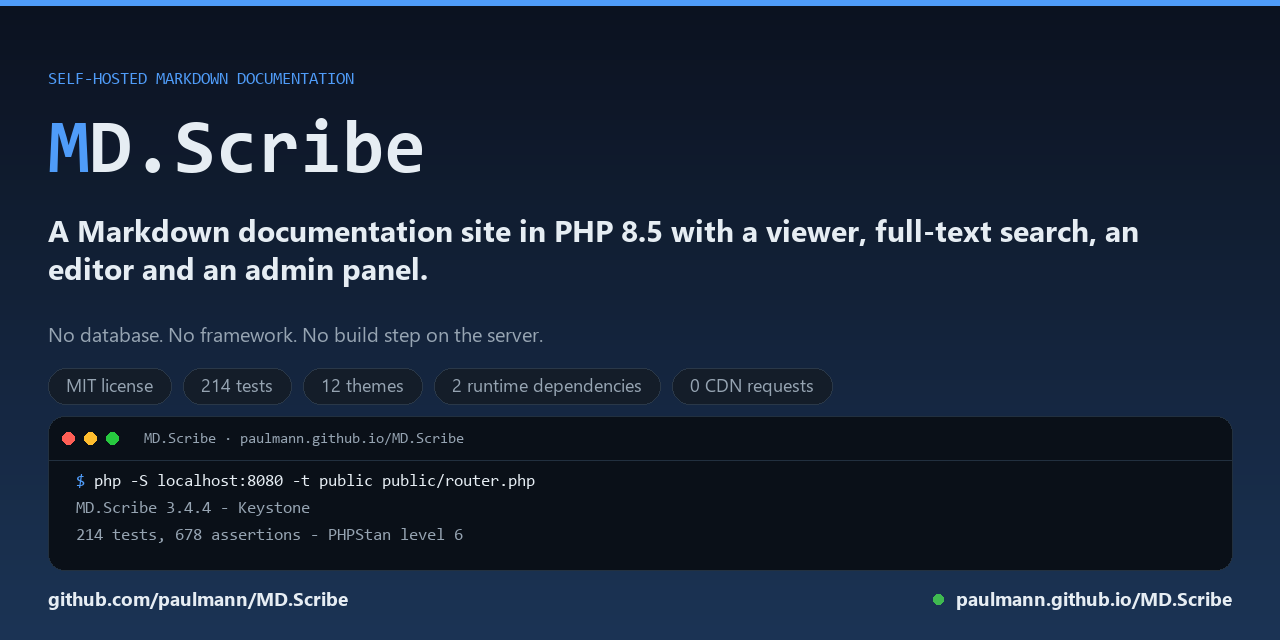
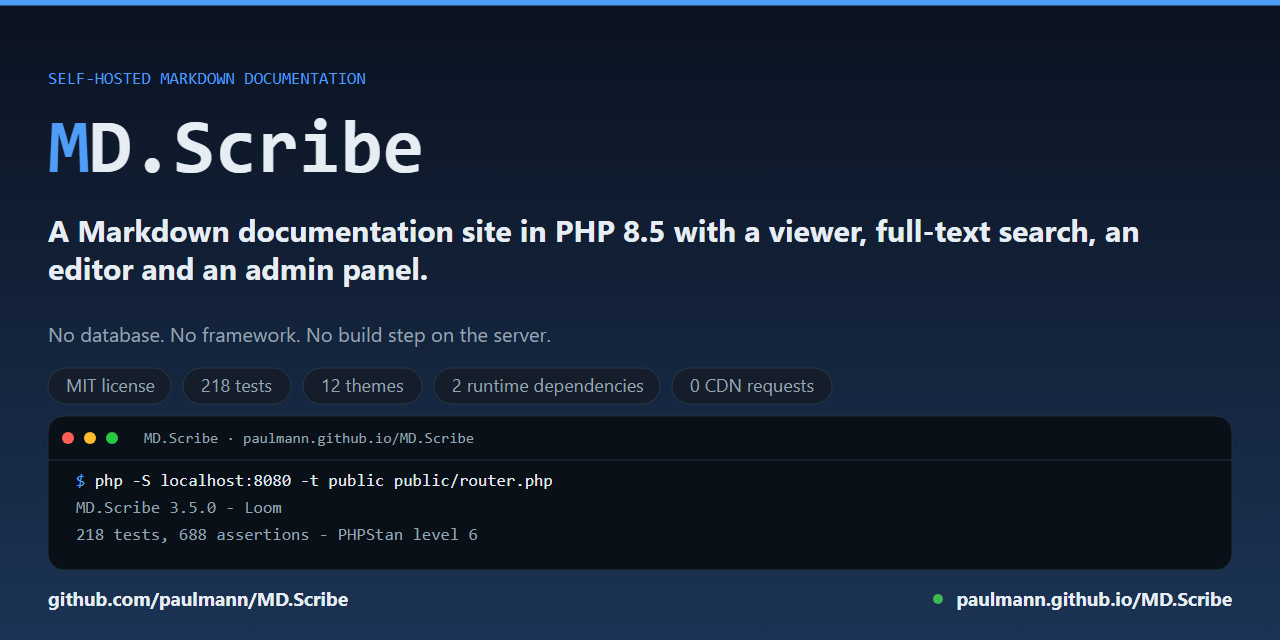
chore(release): prepare 3.5.0 "Loom"
Version carriers move together: Version::VERSION 3.5.0 and CODENAME Loom, the CHANGELOG Unreleased section becomes ## 3.5.0 - 2026-11-14, and every README carries Version: 3.5.0. The doctrine checker compares all three and now reports no version warning.

Mermaid 12.3.0 is the headline: edge IDs with animation, step-by-step flow animation (12.3+), the circle/cross edge markers and the @{ shape: … } family are listed under Added with the 18-diagram verification. CITATION.cff, the SECURITY supported-versions table (3.5.x current, 3.4.x previous), AGENTS.md and docs/AGENTS-context.md follow the new release; the banner and the test badges move from 214 to 218.

diff --git a/src/Core/Version.php b/src/Core/Version.php
@@ -10,8 +10,8 @@ namespace MdViewer\Core;
 
 final class Version
 {
-    public const string VERSION = '3.4.4';
-    public const string CODENAME = 'Keystone';
+    public const string VERSION = '3.5.0';
+    public const string CODENAME = 'Loom';
     public const string PHP_MIN = '8.5.0';
     public const string REPO = 'https://github.com/paulmann/MD.Scribe';
     public const string RAW_BASE = 'https://raw.githubusercontent.com/paulmann/MD.Scribe/main';

diff --git a/docs/AGENTS-context.md b/docs/AGENTS-context.md
@@ -1,8 +1,8 @@
-# Project context: MD.Scribe 3.4.4 «Keystone»
+# Project context: MD.Scribe 3.5.0 «Loom»
 
 Deep reference for an agent working on this repository. Read `AGENTS.md` first;
 read the code before asserting anything. Everything here was verified against
-the tree at 3.4.4 — when a line number disagrees with the file, the file wins
+the tree at 3.5.0 — when a line number disagrees with the file, the file wins
 and the disagreement is a documentation defect worth reporting.
 
 Platform facts that changed in the 3.4 line: **PHP floor is 8.5** (anything below is
@@ -278,10 +278,10 @@ If the PHP user differs from the deploy user, the first symptom is
   examining the wrong object. `plan()` downloads the release archive, verifies it
   against the manifest inside it and reports what would change; it writes nothing.
   `apply()` and `plan()` share `openRelease()`, so they cannot drift apart.
-- **Releases:** one tag at a time in the 3.4 line — `v3.4.4` is the only 3.4
-  release (measured 2026-11-14 with `gh release list`); the archive asset
-  `MD.Scribe-3.4.4.zip` is attached and was deployed and verified before the
-  release was published. CI runs on branches and on the release commit.
+- **Releases:** `v3.5.0` (2026-11-14) is the current release, `v3.4.4`
+  (2026-11-13) the previous one; both carry an archive asset. The archive's
+  embedded `config/manifest.json` was verified against the archive contents
+  before publishing. CI runs on branches and on the release commit.
 
 ## 9. Build and test toolchain
 
@@ -301,8 +301,8 @@ and the three root scripts, but **not** `bin/md-scribe-render`. The doctrine che
 enforces `declare(strict_types=1)` in every `src/` file and a PHPStan ratchet that
 forbids new `ignoreErrors` entries (`phpstan.neon:33-34`).
 
-Baseline at 3.4.4 on Windows (PHP 8.5.0): `php vendor\bin\phpunit --no-coverage`
-reports `Tests: 214, Assertions: 678, Skipped: 1`, exit 0; PHPStan level 6 is clean;
+Baseline at 3.5.0 on Windows (PHP 8.5.0): `php vendor\bin\phpunit --no-coverage`
+reports `OK (218 tests, 688 assertions, 1 skipped)`, exit 0; PHPStan level 6 is clean;
 the doctrine checker reports `checks: 12, errors: 0, warnings: 0` (`PASS`). The three
 checks added in 3.4.4 — the manifest media type, the table-layout rules (including
 "both CSS copies are identical") and the ban on paste-ready `types { }` snippets in
@@ -338,7 +338,7 @@ test-portability defect that has since been fixed.
 
 | Question | How to settle it |
 |---|---|
-| Does the published `MD.Scribe-3.4.4.zip` still match the tree? | Compare its embedded `config/manifest.json` against one regenerated from the checkout |
+| Does the published `MD.Scribe-3.5.0.zip` still match the tree? | Compare its embedded `config/manifest.json` against one regenerated from the checkout |
 | Is `bin/md-scribe-render` intentionally outside lint and PHPStan? | Decide, then either add it to `phpstan.neon` paths and the CI `find`, or document the exclusion |
 | Does the `assets` CI job's drift warning ever fire in practice? | Run `node build.mjs` and compare `git diff --stat public/assets` |
 | Should the updater ship a release archive instead of `main`? | Product decision; both failure modes are recorded in §8 |
@@ -377,7 +377,7 @@ test-portability defect that has since been fixed.
 ## 14. Operator guide (kept from AGENTS.md)
 
 The sections below were written for the 3.2.x line and are kept because they answer installation and
-failure-mode questions the developer sections do not repeat. Version references were updated to 3.4.4.
+failure-mode questions the developer sections do not repeat. Version references were updated to 3.5.0.
 
 ### 14.1 What it is
 
@@ -411,7 +411,7 @@ If a check fails, stop and report; do not work around it silently.
 
 #### 14.3.1 From a release (preferred)
 
-Tag `v3.4.4`, asset `MD.Scribe-3.4.4.zip`; the archive bundles `vendor/`, so Composer is not needed.
+Tag `v3.5.0`, asset `MD.Scribe-3.5.0.zip`; the archive bundles `vendor/`, so Composer is not needed.
 Commands from the release notes:
 
 ```bash

diff --git a/README.es.md b/README.es.md
@@ -1,6 +1,6 @@
 <!--
  * MD.Scribe — Documentation
- * Version: 3.4.4
+ * Version: 3.5.0
 -->
 
 # MD.Scribe 3
@@ -19,7 +19,7 @@ todos los recursos se distribuyen localmente, por lo que toda la aplicación fun
 [![Versión](https://img.shields.io/github/v/release/paulmann/MD.Scribe?label=release&sort=semver)](https://github.com/paulmann/MD.Scribe/releases)
 [![Licencia: MIT](https://img.shields.io/badge/license-MIT-blue.svg)](LICENSE)
 [![PHP 8.5](https://img.shields.io/badge/PHP-8.5-777BB4?logo=php&logoColor=white)](https://php.net)
-[![Pruebas](https://img.shields.io/badge/tests-214%20passed-brightgreen)](tests)
+[![Pruebas](https://img.shields.io/badge/tests-218%20passed-brightgreen)](tests)
 [![Peticiones CDN](https://img.shields.io/badge/CDN%20requests-0-success)](#política-de-cero-cdn)
 
 <img src="https://github.com/paulmann/MD.Scribe/raw/main/assets/social-preview.png"
@@ -29,7 +29,7 @@ todos los recursos se distribuyen localmente, por lo que toda la aplicación fun
 [**Inicio rápido**](#inicio-rápido) · [**Recorrido por las funciones**](#recorrido-por-las-funciones) · [**Configuración**](#configuración--mdini) · [**Documentación**](#documentación) · [**Wiki**](https://github.com/paulmann/MD.Scribe/wiki) · [**AGENTS.md**](AGENTS.md) · [**Changelog**](CHANGELOG.md) · [**Seguridad**](SECURITY.md) · [**Contribuir**](CONTRIBUTING.md)
 
 > **Estado de la documentación.** La versión y todas las cifras de este README se midieron el
-> 2026-11-14 sobre el árbol `main` de la 3.4.4, con el comando indicado allí donde aparece la
+> 2026-11-14 sobre el árbol `main` de la 3.5.0, con el comando indicado allí donde aparece la
 > cifra. Las guías orientadas a tareas están en la
 > [wiki](https://github.com/paulmann/MD.Scribe/wiki/Home); la documentación de referencia está
 > en [`docs/`](docs/installation.md).
@@ -298,7 +298,7 @@ Para informar de una vulnerabilidad: **[SECURITY.md](SECURITY.md)**.
 
 ## En cifras
 
-Medido el 2026-11-14 sobre el árbol `main` de la 3.4.4:
+Medido el 2026-11-14 sobre el árbol `main` de la 3.5.0:
 
 | Superficie | Valor | Fuente de la medición |
 | --- | ---: | --- |

diff --git a/README.zh.md b/README.zh.md
@@ -1,6 +1,6 @@
 <!--
  * MD.Scribe — Documentation
- * Version: 3.4.4
+ * Version: 3.5.0
 -->
 
 # MD.Scribe 3
@@ -17,7 +17,7 @@ MD.Scribe 是一个用 PHP 8.5 构建的自托管 Markdown 文档平台：一个
 [![发布](https://img.shields.io/github/v/release/paulmann/MD.Scribe?label=release&sort=semver)](https://github.com/paulmann/MD.Scribe/releases)
 [![许可证：MIT](https://img.shields.io/badge/license-MIT-blue.svg)](LICENSE)
 [![PHP 8.5](https://img.shields.io/badge/PHP-8.5-777BB4?logo=php&logoColor=white)](https://php.net)
-[![测试](https://img.shields.io/badge/tests-214%20passed-brightgreen)](tests)
+[![测试](https://img.shields.io/badge/tests-218%20passed-brightgreen)](tests)
 [![CDN 请求](https://img.shields.io/badge/CDN%20requests-0-success)](#零-cdn-策略)
 
 <img src="https://github.com/paulmann/MD.Scribe/raw/main/assets/social-preview.png"
@@ -26,7 +26,7 @@ MD.Scribe 是一个用 PHP 8.5 构建的自托管 Markdown 文档平台：一个
 
 [**快速开始**](#快速开始) · [**功能导览**](#功能导览) · [**配置**](#配置--mdini) · [**文档**](#文档) · [**Wiki**](https://github.com/paulmann/MD.Scribe/wiki) · [**AGENTS.md**](AGENTS.md) · [**更新日志**](CHANGELOG.md) · [**安全性**](SECURITY.md) · [**参与贡献**](CONTRIBUTING.md)
 
-> **文档状态。** 本 README 中的版本号和每一个数字都于 2026-11-14 针对 3.4.4 的 `main` 树测得，
+> **文档状态。** 本 README 中的版本号和每一个数字都于 2026-11-14 针对 3.5.0 的 `main` 树测得，
 > 并在数字出现处注明所用的命令。面向任务的指南位于
 > [wiki](https://github.com/paulmann/MD.Scribe/wiki/Home)；参考文档位于
 > [`docs/`](docs/installation.md)。
@@ -273,7 +273,7 @@ curl -H "X-Api-Key: $API_KEY" -H 'Content-Type: application/json' \
 
 ## 数字一览
 
-于 2026-11-14 针对 3.4.4 的 `main` 树测得：
+于 2026-11-14 针对 3.5.0 的 `main` 树测得：
 
 | 方面 | 数值 | 测量来源 |
 | --- | ---: | --- |

diff --git a/README.fr.md b/README.fr.md
@@ -1,6 +1,6 @@
 <!--
  * MD.Scribe — Documentation
- * Version: 3.4.4
+ * Version: 3.5.0
 -->
 
 # MD.Scribe 3
@@ -20,7 +20,7 @@ ligne.
 [![Version](https://img.shields.io/github/v/release/paulmann/MD.Scribe?label=release&sort=semver)](https://github.com/paulmann/MD.Scribe/releases)
 [![Licence : MIT](https://img.shields.io/badge/license-MIT-blue.svg)](LICENSE)
 [![PHP 8.5](https://img.shields.io/badge/PHP-8.5-777BB4?logo=php&logoColor=white)](https://php.net)
-[![Tests](https://img.shields.io/badge/tests-214%20passed-brightgreen)](tests)
+[![Tests](https://img.shields.io/badge/tests-218%20passed-brightgreen)](tests)
 [![Requêtes CDN](https://img.shields.io/badge/CDN%20requests-0-success)](#politique-zéro-cdn)
 
 <img src="https://github.com/paulmann/MD.Scribe/raw/main/assets/social-preview.png"
@@ -30,7 +30,7 @@ ligne.
 [**Démarrage rapide**](#démarrage-rapide) · [**Tour d'horizon**](#tour-dhorizon-des-fonctionnalités) · [**Configuration**](#configuration--mdini) · [**Documentation**](#documentation) · [**Wiki**](https://github.com/paulmann/MD.Scribe/wiki) · [**AGENTS.md**](AGENTS.md) · [**Journal des modifications**](CHANGELOG.md) · [**Sécurité**](SECURITY.md) · [**Contribution**](CONTRIBUTING.md)
 
 > **État de la documentation.** La version et chaque nombre de ce README ont été mesurés le
-> 2026-11-14 sur l'arbre `main` de 3.4.4, avec la commande nommée là où le nombre apparaît.
+> 2026-11-14 sur l'arbre `main` de 3.5.0, avec la commande nommée là où le nombre apparaît.
 > Les guides orientés tâches se trouvent dans le
 > [wiki](https://github.com/paulmann/MD.Scribe/wiki/Home) ; la documentation de référence se
 > trouve dans [`docs/`](docs/installation.md).
@@ -300,7 +300,7 @@ Signalement d'une vulnérabilité : **[SECURITY.md](SECURITY.md)**.
 
 ## En chiffres
 
-Mesuré le 2026-11-14 sur l'arbre `main` de 3.4.4 :
+Mesuré le 2026-11-14 sur l'arbre `main` de 3.5.0 :
 
 | Surface | Valeur | Source de la mesure |
 | --- | ---: | --- |

diff --git a/README.de.md b/README.de.md
@@ -1,6 +1,6 @@
 <!--
  * MD.Scribe — Documentation
- * Version: 3.4.4
+ * Version: 3.5.0
 -->
 
 # MD.Scribe 3
@@ -19,7 +19,7 @@ gesamte Anwendung offline arbeitet.
 [![Veröffentlichung](https://img.shields.io/github/v/release/paulmann/MD.Scribe?label=release&sort=semver)](https://github.com/paulmann/MD.Scribe/releases)
 [![Lizenz: MIT](https://img.shields.io/badge/license-MIT-blue.svg)](LICENSE)
 [![PHP 8.5](https://img.shields.io/badge/PHP-8.5-777BB4?logo=php&logoColor=white)](https://php.net)
-[![Tests](https://img.shields.io/badge/tests-214%20passed-brightgreen)](tests)
+[![Tests](https://img.shields.io/badge/tests-218%20passed-brightgreen)](tests)
 [![CDN-Anfragen](https://img.shields.io/badge/CDN%20requests-0-success)](#zero-cdn-richtlinie)
 
 <img src="https://github.com/paulmann/MD.Scribe/raw/main/assets/social-preview.png"
@@ -29,7 +29,7 @@ gesamte Anwendung offline arbeitet.
 [**Schnellstart**](#schnellstart) · [**Funktionsübersicht**](#funktionsübersicht) · [**Konfiguration**](#konfiguration--mdini) · [**Dokumentation**](#dokumentation) · [**Wiki**](https://github.com/paulmann/MD.Scribe/wiki) · [**AGENTS.md**](AGENTS.md) · [**Changelog**](CHANGELOG.md) · [**Sicherheit**](SECURITY.md) · [**Mitwirken**](CONTRIBUTING.md)
 
 > **Dokumentationsstand.** Version und jede Zahl in dieser README wurden am 2026-11-14 gegen
-> den `main`-Baum von 3.4.4 gemessen, wobei der Befehl jeweils dort genannt wird, wo die Zahl
+> den `main`-Baum von 3.5.0 gemessen, wobei der Befehl jeweils dort genannt wird, wo die Zahl
 > erscheint. Aufgabenorientierte Anleitungen liegen im
 > [Wiki](https://github.com/paulmann/MD.Scribe/wiki/Home); die Referenzdokumentation liegt in
 > [`docs/`](docs/installation.md).
@@ -294,7 +294,7 @@ Sicherheitslücke melden: **[SECURITY.md](SECURITY.md)**.
 
 ## In Zahlen
 
-Gemessen am 2026-11-14 gegen den `main`-Baum von 3.4.4:
+Gemessen am 2026-11-14 gegen den `main`-Baum von 3.5.0:
 
 | Bereich | Wert | Messquelle |
 | --- | ---: | --- |

diff --git a/README.md b/README.md
@@ -1,6 +1,6 @@
 <!--
  * MD.Scribe — Documentation
- * Version: 3.4.4
+ * Version: 3.5.0
 -->
 
 # MD.Scribe 3
@@ -18,7 +18,7 @@ locally, so the whole application works offline.
 [![Release](https://img.shields.io/github/v/release/paulmann/MD.Scribe?label=release&sort=semver)](https://github.com/paulmann/MD.Scribe/releases)
 [![License: MIT](https://img.shields.io/badge/license-MIT-blue.svg)](LICENSE)
 [![PHP 8.5](https://img.shields.io/badge/PHP-8.5-777BB4?logo=php&logoColor=white)](https://php.net)
-[![Tests](https://img.shields.io/badge/tests-214%20passed-brightgreen)](tests)
+[![Tests](https://img.shields.io/badge/tests-218%20passed-brightgreen)](tests)
 [![CDN requests](https://img.shields.io/badge/CDN%20requests-0-success)](#zero-cdn-policy)
 
 <img src="https://github.com/paulmann/MD.Scribe/raw/main/assets/social-preview.png"
@@ -28,7 +28,7 @@ locally, so the whole application works offline.
 [**Quick start**](#quick-start) · [**Feature tour**](#feature-tour) · [**Configuration**](#configuration--mdini) · [**Documentation**](#documentation) · [**Wiki**](https://github.com/paulmann/MD.Scribe/wiki) · [**AGENTS.md**](AGENTS.md) · [**Changelog**](CHANGELOG.md) · [**Security**](SECURITY.md) · [**Contributing**](CONTRIBUTING.md)
 
 > **Documentation status.** The version and every number in this README were measured on
-> 2026-11-14 against the `main` tree of 3.4.4, with the command named where the number appears.
+> 2026-11-14 against the `main` tree of 3.5.0, with the command named where the number appears.
 > Task-oriented guides live in the [wiki](https://github.com/paulmann/MD.Scribe/wiki/Home);
 > reference documentation lives in [`docs/`](docs/installation.md).
 
@@ -292,7 +292,7 @@ Reporting a vulnerability: **[SECURITY.md](SECURITY.md)**.
 
 ## In numbers
 
-Measured on 2026-11-14 against the `main` tree of 3.4.4:
+Measured on 2026-11-14 against the `main` tree of 3.5.0:
 
 | Surface | Value | Measurement source |
 | --- | ---: | --- |

diff --git a/AGENTS.md b/AGENTS.md
@@ -1,13 +1,13 @@
 # MD.Scribe — agent instructions
 
 MD.Scribe is a self-hosted, framework-free, database-free PHP 8.5 Markdown documentation platform
-(MIT, 3.4.4 "Keystone"). This file is the agent's map: the commands that must pass, the invariants
+(MIT, 3.5.0 "Loom"). This file is the agent's map: the commands that must pass, the invariants
 that must not break, the traps that have already bitten this project, and where the detail lives.
 The deep reference is [docs/AGENTS-context.md](docs/AGENTS-context.md); read the layer you are changing.
 
-Verified against the tree on 2026-11-14: `Version::VERSION = '3.4.4'`, `CODENAME = 'Keystone'`,
+Verified against the tree on 2026-11-14: `Version::VERSION = '3.5.0'`, `CODENAME = 'Loom'`,
 `PHP_MIN = '8.5.0'`; `composer.json` requires `php >= 8.5`; CI runs PHP 8.5 only (`php: ['8.5']`).
-Release `v3.4.4`; tags `v3.1.0`, `v3.2.0`, `v3.2.1`, `v3.4.4`.
+Release `v3.5.0`; tags `v3.1.0`, `v3.2.0`, `v3.2.1`, `v3.4.4`, `v3.5.0`.
 
 [Commands](#commands) · [Rules](#non-negotiable-rules) · [Traps](#traps) · [Machine APIs](#machine-apis) ·
 [Verify](#verify-before-claiming-done) · [Detail](#where-the-detail-lives) · [Do not](#do-not)

diff --git a/SECURITY.md b/SECURITY.md
@@ -10,12 +10,13 @@ control-by-control reasoning and the hardening checklist live in
 
 | Version | Supported | Notes |
 | --- | --- | --- |
-| 3.4.x | Yes | current line (3.4.4 released 2026-11-13) |
-| 3.3.x and earlier | No | upgrade to 3.4.x to receive fixes |
+| 3.5.x | Yes | current line (3.5.0 released 2026-11-14) |
+| 3.4.x | No | previous line; upgrade to 3.5.x to receive fixes |
+| 3.3.x and earlier | No | upgrade to 3.5.x to receive fixes |
 
 Security fixes are released as patch versions on the current line. Older lines are not
 maintained: a report against one is answered with "upgrade and retest" unless the defect
-also reproduces on 3.4.x.
+also reproduces on 3.5.x.
 
 ## Reporting a vulnerability
 
@@ -38,7 +39,7 @@ affected versions.
 
 ## What to include
 
-- The affected version (for example 3.4.4) and whether the defect also reproduces on the
+- The affected version (for example 3.5.0) and whether the defect also reproduces on the
   latest release.
 - The deployment shape: docroot at `public/` or at the project root, PHP version, web
   server and SAPI, and the relevant non-default `.md.ini` keys (`ALLOW_RAW_HTML`,

diff --git a/CHANGELOG.md b/CHANGELOG.md
@@ -4,10 +4,17 @@ All notable changes to this project are documented here. The format is
 [Keep a Changelog](https://keepachangelog.com/en/2.0.0/) 2.0.0, and this project adheres to
 [Semantic Versioning](https://semver.org/spec/v2.0.0.html).
 
-## Unreleased
+## 3.5.0 - 2026-11-14
 
 ### Added
 
+- **Mermaid 12.3.0 for authors.** Edge IDs with animation (`A e1@--> B` plus
+  `e1@{ animate: true }` / `e1@{ animation: fast }`), step-by-step flow
+  animation (`e1@{ step: 1 }`, `flowchart.stepDuration`, `flowchart.stepNumbers`),
+  the `A ---o B` and `A ---x B` edge markers, and the `@{ shape: … }` family
+  (manual-file, cylinder, document, paper-tape and the rest). Verified on a
+  18-diagram matrix in a live browser: 17 render, the 18th is the deliberate
+  broken fixture.
 - README translations for Russian, German, Chinese, Hindi, Spanish and French
   (`README.ru.md`, `README.de.md`, `README.zh.md`, `README.hi.md`,
   `README.es.md`, `README.fr.md`) with a language switcher in every language.
